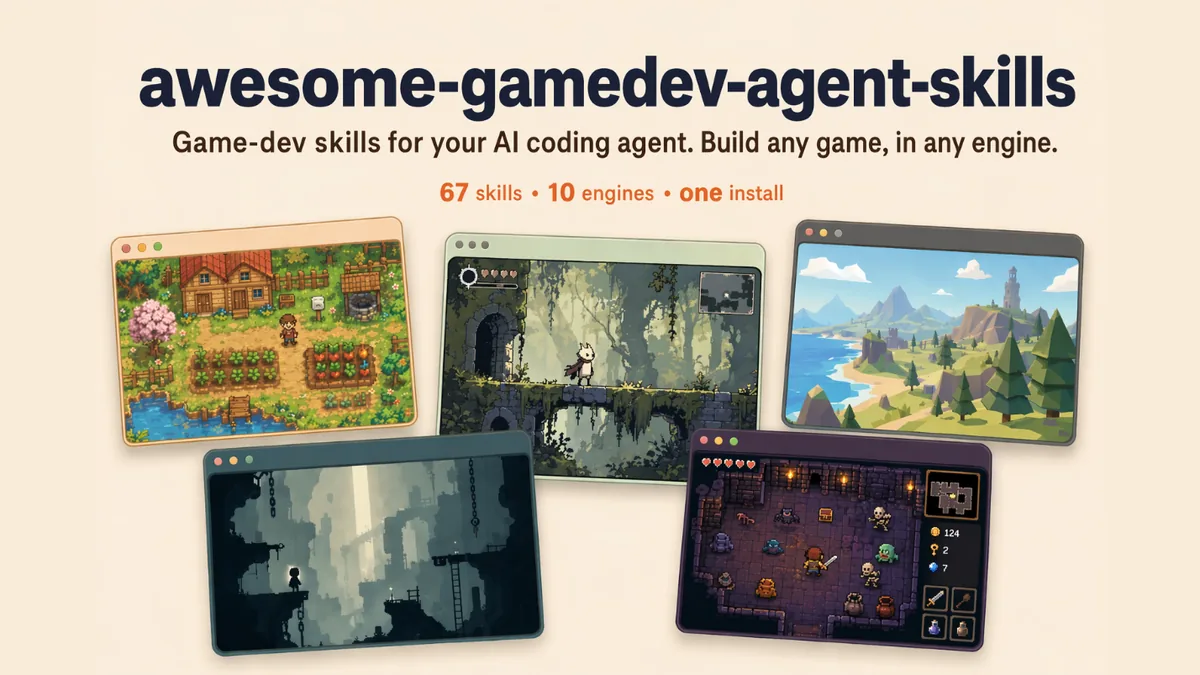
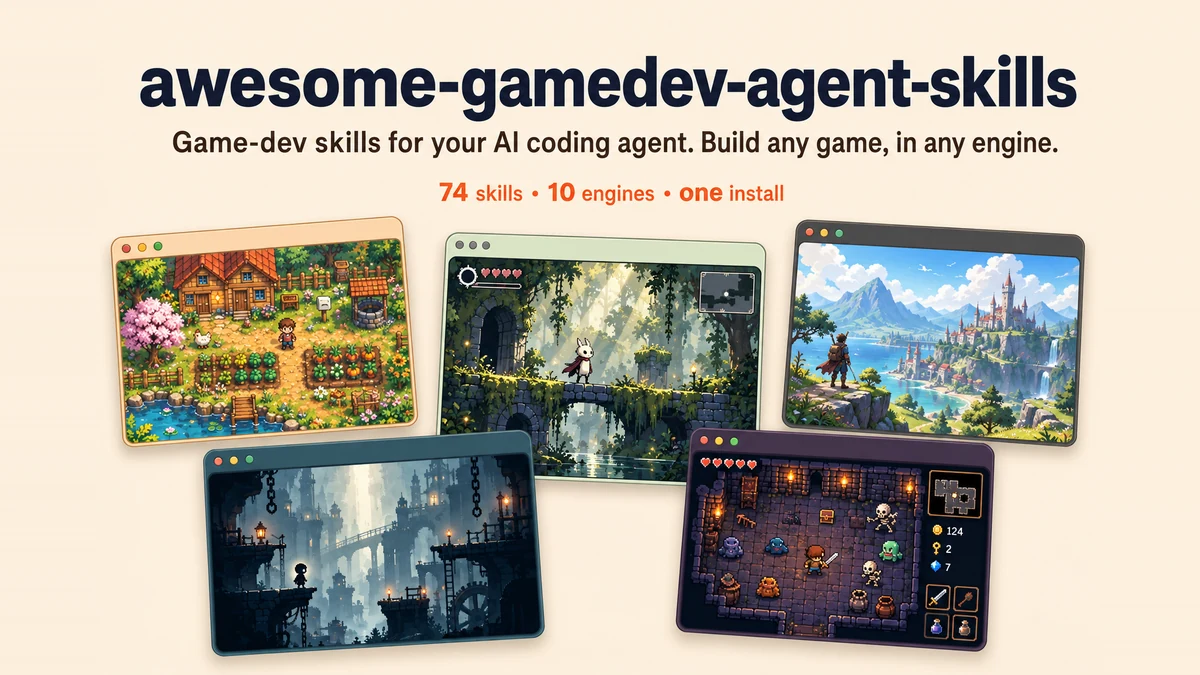
Add the arXiv preprint and update the skills card
Put the Padding to k preprint first in the Open Source card and drop the separate rules library entry. Update Gamedev Agent Skills to 77 skills, 12 engines and its Apache-2.0 licence, and use the repo's current banner.

diff --git a/src/App.tsx b/src/App.tsx
@@ -21,16 +21,16 @@ const portfolioData = {
   // Star counts are a floor: they render instantly, then get refreshed
   // live from the GitHub API on mount so the card never goes stale.
   openSource: [
-    { name: "Gamedev Agent Skills", repo: "gamedev-skills/awesome-gamedev-agent-skills", stars: 7964, license: "MIT", desc: "66 Agent Skills that teach AI coding agents to build games in 10 engines." },
+    { name: "Padding to k (arXiv preprint)", link: "https://arxiv.org/abs/2610.30997", host: "arXiv", license: "CC BY 4.0", desc: "When a JSON schema asks for at least k list items, open-weight models pad their answers to reach k. A preregistered study of 8 models on 558 real documents, with code and data released." },
+    { name: "Gamedev Agent Skills", repo: "gamedev-skills/awesome-gamedev-agent-skills", stars: 7964, license: "Apache-2.0", desc: "77 Agent Skills that teach AI coding agents to build games in 12 engines." },
     { name: "SpeakoFlow", repo: "AbhishekBarali/SpeakoFlow", stars: 393, license: "MIT", desc: "Offline voice dictation for Windows, macOS and Linux. Rust and Tauri." },
     { name: "SpeakoFlow Mini", link: "https://huggingface.co/SpeakoFlow/speakoflow-mini", host: "Hugging Face", license: "Apache-2.0", desc: "A 0.8B dictation cleanup model in GGUF, published with its evaluation spec." },
-    { name: "dictation-cleanup-rules", repo: "AbhishekBarali/dictation-cleanup-rules", license: "MIT", desc: "The deterministic half of cleanup as a library. Spec, pattern tables, conformance suite, Python and TypeScript." },
     { name: "dictation-cleanup-dataset", repo: "AbhishekBarali/dictation-cleanup-dataset", license: "CC BY 4.0", desc: "3,337 hand-authored cleanup pairs. 46% are rows a model must return unchanged." }
   ],
   projects: [
     { name: "SpeakoFlow", desc: "Local-first desktop voice assistant. Dictation, writing and AI, all on-device.", link: "https://www.speakoflow.com", image: "/projects/speakoflow.webp", layout: "horizontal" },
     { name: "SpeakoFlow Mini", desc: "A 0.8B dictation cleanup model, fine-tuned from Qwen3.5-0.8B. It applies the correction the speaker made and leaves everything else untouched. 833 MB, runs offline. Published with its evaluation spec, an example dataset, and the rule layer as a separate MIT library.", link: "https://huggingface.co/SpeakoFlow/speakoflow-mini", image: "/projects/speakoflow-mini.webp", layout: "horizontal" },
-    { name: "Gamedev Agent Skills", desc: "66 open-source Agent Skills that teach AI coding agents to build games in 10 engines.", link: "https://github.com/gamedev-skills/awesome-gamedev-agent-skills", image: "/projects/gamedev-skills.webp", layout: "horizontal" },
+    { name: "Gamedev Agent Skills", desc: "77 open-source Agent Skills that teach AI coding agents to build games in 12 engines.", link: "https://github.com/gamedev-skills/awesome-gamedev-agent-skills", image: "/projects/gamedev-skills.webp", layout: "horizontal" },
     { name: "Barali Chat", desc: "Full-stack AI chat platform with multi-provider support.", link: "https://barali.tech", image: "/projects/barali-chat.webp", layout: "featured" },
     { name: "Kaiki.dev", desc: "B2B security and AI discovery platform. Private beta.", link: "https://kaiki.dev", image: "/projects/kaiki.webp", layout: "horizontal" },
     { name: "KAIKI Shikigami", desc: "AI agent system for business opportunity discovery.", link: "https://github.com/AbhishekBarali/KAIKI-Shikigami", image: "/projects/shikigami.webp", layout: "horizontal" }
@@ -717,8 +717,8 @@ export default function App() {
       <Modal isOpen={activeModal === 'opensource'} onClose={() => setActiveModal(null)} title="Open Source" jp="公開" maxWidth="max-w-3xl">
         <div className="space-y-5">
           <p className="text-washi/70 text-sm leading-relaxed">
-            Everything here is public and checkable: the app, the model it downloads, the rule
-            layer underneath it, the dataset behind the rules, and the skills.
+            Everything here is public and checkable: the research paper, the app, the model it
+            downloads, the cleanup dataset, and the skills.
             Star counts come live from the GitHub API.
           </p>
 
